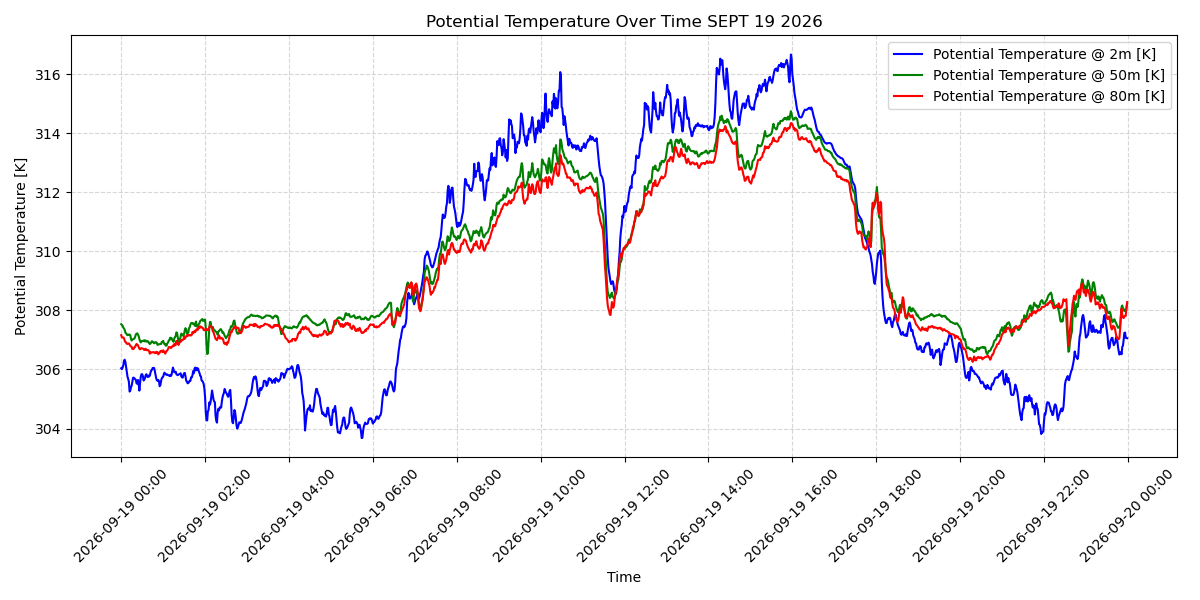
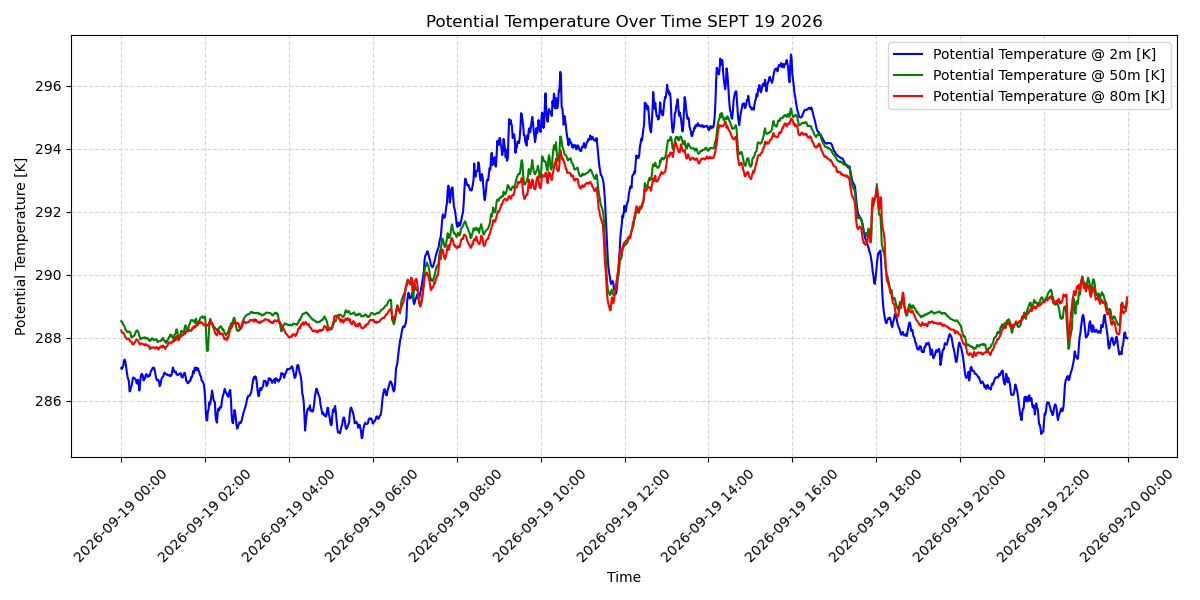
creation of the code and plots for more M2 SEPT 19 2026 turbulence analysis

diff --git a/TK2_M2_SEPT19_pull_Demo.py b/TK2_M2_SEPT19_pull_Demo.py
@@ -29,6 +29,8 @@ temp80 = ds['Temperature @ 80m [deg C]']
 df['datetime'] = pd.to_datetime(df['DATE (MM/DD/YYYY)'].astype(str) + ' ' + df['MST'].astype(str))
 time = df['datetime']
 
+
+
 #####################################################################
 #Plotting the temperatures over time at different heights 
 
@@ -62,13 +64,24 @@ stnd_pressure = ds['Sea-Level Pressure (Est) [mBar]']
 #pressure at the station
 pressure = ds['Station Pressure [mBar]']
 
+#since there's only the station pressure try to calculate the pressures at different heights
+#using the barometic height formula to estimate the pressure at different heights
+
+temp2_K = temp2 + 273.15  # Convert temperature at 2m from Celsius to Kelvin
+temp50_K = temp50 + 273.15  # Convert temperature at 50m from Celsius to Kelvin
+temp80_K = temp80 + 273.15  # Convert temperature at 80m from Celsius to Kelvin
+
+press2 = stnd_pressure * (1 - ((0.0065 * 2) / temp2_K)) 
+press50 = stnd_pressure * (1 - ((0.0065 * 50) / temp50_K)) 
+press80 = stnd_pressure * (1 - ((0.0065 * 80) / temp80_K)) 
+
 # k-constant for dry air (k = R/cp)
 k_con = 0.286  # R/cp for dry air
 
 #potential temperature at different heights
-theta2 = (temp2 + 273.15) * (stnd_pressure / pressure) ** k_con
-theta50 = (temp50 + 273.15) * (stnd_pressure / pressure) ** k_con
-theta80 = (temp80 + 273.15) * (stnd_pressure / pressure) ** k_con
+theta2 = (temp2 + 273.15) * (stnd_pressure / press2) ** k_con
+theta50 = (temp50 + 273.15) * (stnd_pressure / press50) ** k_con
+theta80 = (temp80 + 273.15) * (stnd_pressure / press80) ** k_con
 
 # plt.figure(figsize=(12, 6))
 # plt.plot(time, theta2, label='Potential Temperature @ 2m [K]', color='blue')
@@ -121,21 +134,89 @@ wind_sp80 = ds['Avg Wind Speed @ 80m [m/s]']
 ##############################
 # Plotting the Turbulence Intensity at different heights
 #with a rolling mean of 10 minutes
+#Fixing getting the rolling mean and std to get the running turbulence intensity
 
-wind_std2 = wind_sp2.rolling('10min').std()
-wind_std50 = wind_sp50.rolling('10min').std()
-wind_std80 = wind_sp80.rolling('10min').std()
+# print(time) #in minutes 
 
-wind_avg2 = wind_sp2.rolling('10min').mean()
-wind_avg50 = wind_sp50.rolling('10min').mean()
-wind_avg80 = wind_sp80.rolling('10min').mean()
+
+wind_std2 = ds['Avg Wind Speed @ 2m [m/s]'].rolling(index=10).std()
+wind_std50 = ds['Avg Wind Speed @ 50m [m/s]'].rolling(index=10).std()
+wind_std80 = ds['Avg Wind Speed @ 80m [m/s]'].rolling(index=10).std()
+
+wind_avg2 = ds['Avg Wind Speed @ 2m [m/s]'].rolling(index=10).mean()
+wind_avg50 = ds['Avg Wind Speed @ 50m [m/s]'].rolling(index=10).mean()
+wind_avg80 = ds['Avg Wind Speed @ 80m [m/s]'].rolling(index=10).mean()
 
 turb_int2 = wind_std2 / wind_avg2
 turb_int50 = wind_std50 / wind_avg50
 turb_int80 = wind_std80 / wind_avg80
 
+#plotting the turbulence intensity over time at different heights
+# plt.figure(figsize=(12, 6))
+# plt.plot(time, turb_int2, label='Turbulence Intensity @ 2m', color='blue')
+# plt.plot(time, turb_int50, label='Turbulence Intensity @ 50m', color='green')
+# plt.plot(time, turb_int80, label='Turbulence Intensity @ 80m', color='red')
+
+# #setting up the x-axis to show time in a readable format
+# plt.gca().xaxis.set_major_locator(mdates.HourLocator(interval=2))
+# plt.gca().xaxis.set_major_formatter(mdates.DateFormatter('%Y-%m-%d %H:%M'))
+
+# plt.xlabel('Time')
+# plt.ylabel('Turbulence Intensity')
+# plt.title('Turbulence Intensity Over Time SEPT 19 2026')
+# plt.xticks(rotation=45, fontsize=10)
+# plt.yticks(fontsize=10)
+# plt.grid(True, linestyle='--', alpha=0.5)
+# plt.tight_layout()
+# plt.legend(fontsize=10)
+# plt.show()
+
+#####################################################################################################################
+#to calcultate the reynolds number I need to get the density and the viscosity of the atmosphere at the different heights
+
+#thankfully for the ideal gas law we can get the density simply with the temperature and pressuere at the different heights 
+
+R_air = 287.05  # J/(kg·K), specific gas constant for dry air
 
 
+rho2 = press2 / (R_air * temp2_K)  # Density at 2m
+rho50 = press50 / (R_air * temp50_K)  # Density at 50m
+rho80 = press80 / (R_air * temp80_K)  # Density at 80m
+
+## now calculating the viscosity of air at different heights
+#based fom Sutherland's formula for the dynamic viscosity of air
+mu_ref = 1.7894e-5  # Reference dynamic viscosity of air at T_ref
+T_ref = 288.15  # Reference temperature in Kelvin (15°C)
+Suth_con = 113  # Sutherland's constant for air in Kelvin
+
+mu2 = mu_ref * (temp2_K / T_ref)**1.5 * (T_ref + Suth_con) / (temp2_K + Suth_con)  # Viscosity at 2m
+mu50 = mu_ref * (temp50_K / T_ref)**1.5 * (T_ref + Suth_con) / (temp50_K + Suth_con)  # Viscosity at 50m
+mu80 = mu_ref * (temp80_K / T_ref)**1.5 * (T_ref + Suth_con) / (temp80_K + Suth_con)  # Viscosity at 80m
+
+#calculating the Reynolds number at different heights
+Re2 = (rho2 * wind_avg2 * 2) / mu2  # Reynolds number at 2m
+Re50 = (rho50 * wind_avg50 * 50) / mu50  # Reynolds number at 50m
+Re80 = (rho80 * wind_avg80 * 80) / mu80  # Reynolds number at 80m
+
+#plotting the Reynolds number at different heights
+plt.figure(figsize=(12, 6))
+plt.plot(time, Re2, label='Reynolds Number @ 2m', color='blue')
+plt.plot(time, Re50, label='Reynolds Number @ 50m', color='green')
+plt.plot(time, Re80, label='Reynolds Number @ 80m', color='red')
+
+# #setting up the x-axis to show time in a readable format
+plt.gca().xaxis.set_major_locator(mdates.HourLocator(interval=2))
+plt.gca().xaxis.set_major_formatter(mdates.DateFormatter('%Y-%m-%d %H:%M'))
+
+plt.xlabel('Time')
+plt.ylabel('Reynolds Number')
+plt.title('Reynolds Number Over Time SEPT 19 2026')
+plt.xticks(rotation=45, fontsize=10)
+plt.yticks(fontsize=10)
+plt.grid(True, linestyle='--', alpha=0.5)
+plt.tight_layout()
+plt.legend(fontsize=10)
+plt.show()
 
 
 ############################################################################
